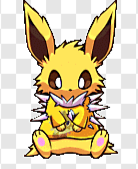
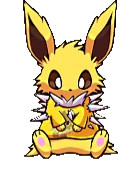
update

diff --git a/README.md b/README.md
@@ -1,7 +1,9 @@
-<p align="center">
+<div  style="display: flex">
   <div align="center">
-    <img src="jolteon.png" alt="Banner" width="100%" />
+    <img src="jolteon.png" alt="Banner" width="90" />
   </div>
+
+<br>
 
   <p align="left">
     <a href="https://linkedin.com/in/sandromigilba" target="_blank">
@@ -14,7 +16,7 @@
       <img src="icons/portfolio.svg" alt="Portfolio" width="55" height="55" />
     </a>
   </p>
-</p>
+</div>
 
 ---
 
